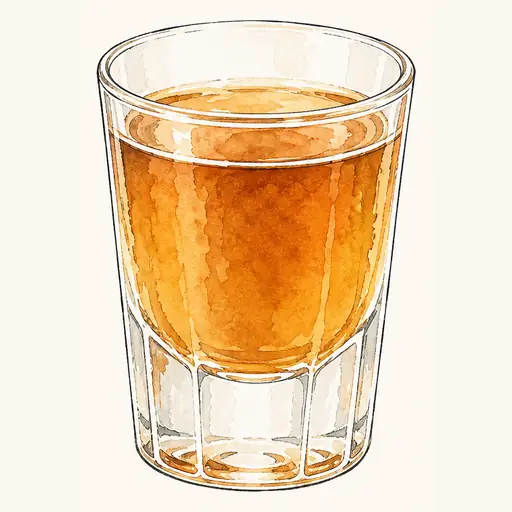
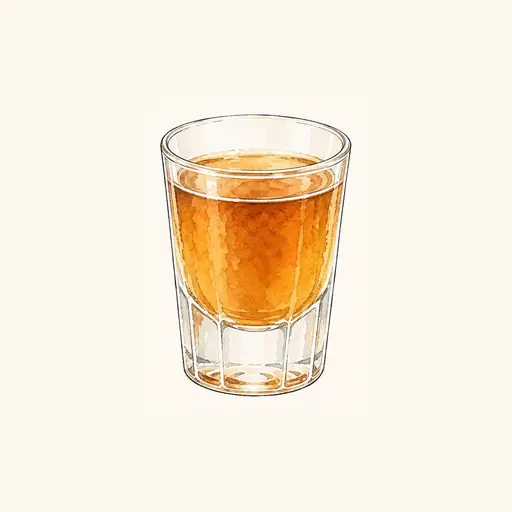
sipdeck: shrink shot artwork in the images themselves

diff --git a/app.js b/app.js
@@ -839,8 +839,7 @@ if (typeof document !== 'undefined') (function () {
       const rotation = flip ? degrees + 180 : degrees;
       const x = flip ? 6 : 94, anchor = flip ? 'start' : 'end';
       const label = localText(entry.sector);
-      const artR = entry.category === 'shot' ? 4.1 : 5.3; // shots drawn smaller
-      return `<path class="wheel-sector" data-sector="${index}" d="${wheelSectorPath(index)}"/><circle class="wheel-art-ring" cx="${cx.toFixed(3)}" cy="${cy.toFixed(3)}" r="5.7"/><image class="wheel-art" href="${esc(entry.art)}" x="${(cx - artR).toFixed(3)}" y="${(cy - artR).toFixed(3)}" width="${artR * 2}" height="${artR * 2}" preserveAspectRatio="xMidYMid slice" clip-path="url(#wheel-art-${index})"/><text class="wheel-sector-label" x="${x}" y="50.9" text-anchor="${anchor}" transform="rotate(${rotation} 50 50)">${esc(label)}</text>`;
+      return `<path class="wheel-sector" data-sector="${index}" d="${wheelSectorPath(index)}"/><circle class="wheel-art-ring" cx="${cx.toFixed(3)}" cy="${cy.toFixed(3)}" r="5.7"/><image class="wheel-art" href="${esc(entry.art)}" x="${(cx - 5.3).toFixed(3)}" y="${(cy - 5.3).toFixed(3)}" width="10.6" height="10.6" preserveAspectRatio="xMidYMid slice" clip-path="url(#wheel-art-${index})"/><text class="wheel-sector-label" x="${x}" y="50.9" text-anchor="${anchor}" transform="rotate(${rotation} 50 50)">${esc(label)}</text>`;
     }).join('');
     const choices = lineup.map(entry => localText(entry.sector)).join(', ');
     return `<svg viewBox="0 0 100 100" role="img" aria-label="${esc(choices)}"><defs>${defs}</defs>${sectors}<circle class="wheel-rim" cx="50" cy="50" r="49"/><circle class="wheel-hub" cx="50" cy="50" r="10"/><circle class="wheel-hub-dot" cx="50" cy="50" r="3"/></svg>`;
@@ -861,7 +860,7 @@ if (typeof document !== 'undefined') (function () {
     const name = entry.kind === 'cocktail'
       ? `<button class="fav-open" data-id="${esc(entry.outcomeId)}">${esc(localText(entry.result))} ›</button>`
       : esc(localText(entry.result));
-    return `<img class="wheel-result-art${entry.category === 'shot' ? ' shot' : ''}" src="${esc(entry.art)}" alt="">
+    return `<img class="wheel-result-art" src="${esc(entry.art)}" alt="">
       <div><p class="wheel-result-label">${esc(t(lang(), 'wheel_result'))}</p>
       <h2 class="wheel-result-name">${name}</h2>${safety}</div>`;
   }

diff --git a/test.js b/test.js
@@ -229,8 +229,6 @@ check(appSource.includes('navigator.vibrate(18)') && appSource.includes('wheelMu
   'wheel feedback: one landing haptic and visit-local sound default');
 check(appSource.includes('!wheelMoodId && wheelData && db'),
   'wheel start: opens live on the first mood, no empty intro wheel');
-check(appSource.includes("entry.category === 'shot' ? 4.1 : 5.3"),
-  'wheel art: shot outcomes rendered smaller than full glasses');
 check(appSource.split("wheelResult ? 'wheel_respin' : 'wheel_spin'").length === 3,
   'wheel respin: hub and controls button relabel in place of a result-box button row');
 check(!appSource.includes('wheel-result-actions'),

diff --git a/index.html b/index.html
@@ -284,7 +284,6 @@ body.wheel-mode .brand,body.wheel-mode .bottom-nav{display:none}
   border-radius:16px;box-shadow:var(--sd-shadow);display:grid;grid-template-columns:56px 1fr;align-items:center;gap:.7rem}
 .wheel-result[hidden]{display:none}
 .wheel-result-art{width:56px;height:56px;border-radius:12px;object-fit:contain;background:#fbf7ef}
-.wheel-result-art.shot{padding:7px}
 .wheel-result-label{font:600 .66rem/1.2 var(--sd-font-ui);color:#6e6455;text-transform:uppercase;letter-spacing:.08em}
 .wheel-result-name{font:400 1.35rem/1.12 var(--sd-font-display);margin-top:.12rem}
 .wheel-result-name .fav-open{padding:0;text-align:left;text-decoration:underline;text-underline-offset:3px;text-decoration-thickness:1px}

diff --git a/HANDOFF.md b/HANDOFF.md
@@ -320,12 +320,14 @@ wrangler from a staging copy excluding `img-src/`. Both production origins retur
 
 Wheel polish on 2026-07-19 (user feedback): the wheel now opens live on the first mood
 (Pigg) instead of the empty intro state, and the home-entry mini symbol is the same
-twelve-sector disc as the big wheel (neutral-mark icons removed). Shot outcomes render
-smaller in sectors (art radius 4.1 vs 5.3) and padded in the result box. Spin duration is
+twelve-sector disc as the big wheel (neutral-mark icons removed). The three shot WebPs in
+`img-wheel/` were regenerated from their `img-src/` masters with the subject scaled to 60%
+of the 512 canvas (same paper pad, q72/m6), so shots read as shot glasses everywhere the
+art is used; a first in-app radius hack was reverted in favor of this. Spin duration is
 6,2-7,4 s (was 5-6 s). The result box lost its button row: the controls button and hub
 relabel to "Snurra igen" and "Nytt hjul" joins the controls row after a spin. A landed
 cocktail's name links to its recipe detail (`#/favoriter/<id>` via `.fav-open`), and
 `resetWheelVisit` is skipped while a detail is open so Tillbaka returns to the intact
 result. Verified in a Playwright phone viewport (390x760): live start, two spins, compact
 result on-screen, cocktail link -> detail -> back with state kept, zero console messages.
-app.js is 59,996 bytes; 4,265 tests green (seven new source guards).
+app.js is 59,856 bytes; 4,264 tests green (six new source guards).